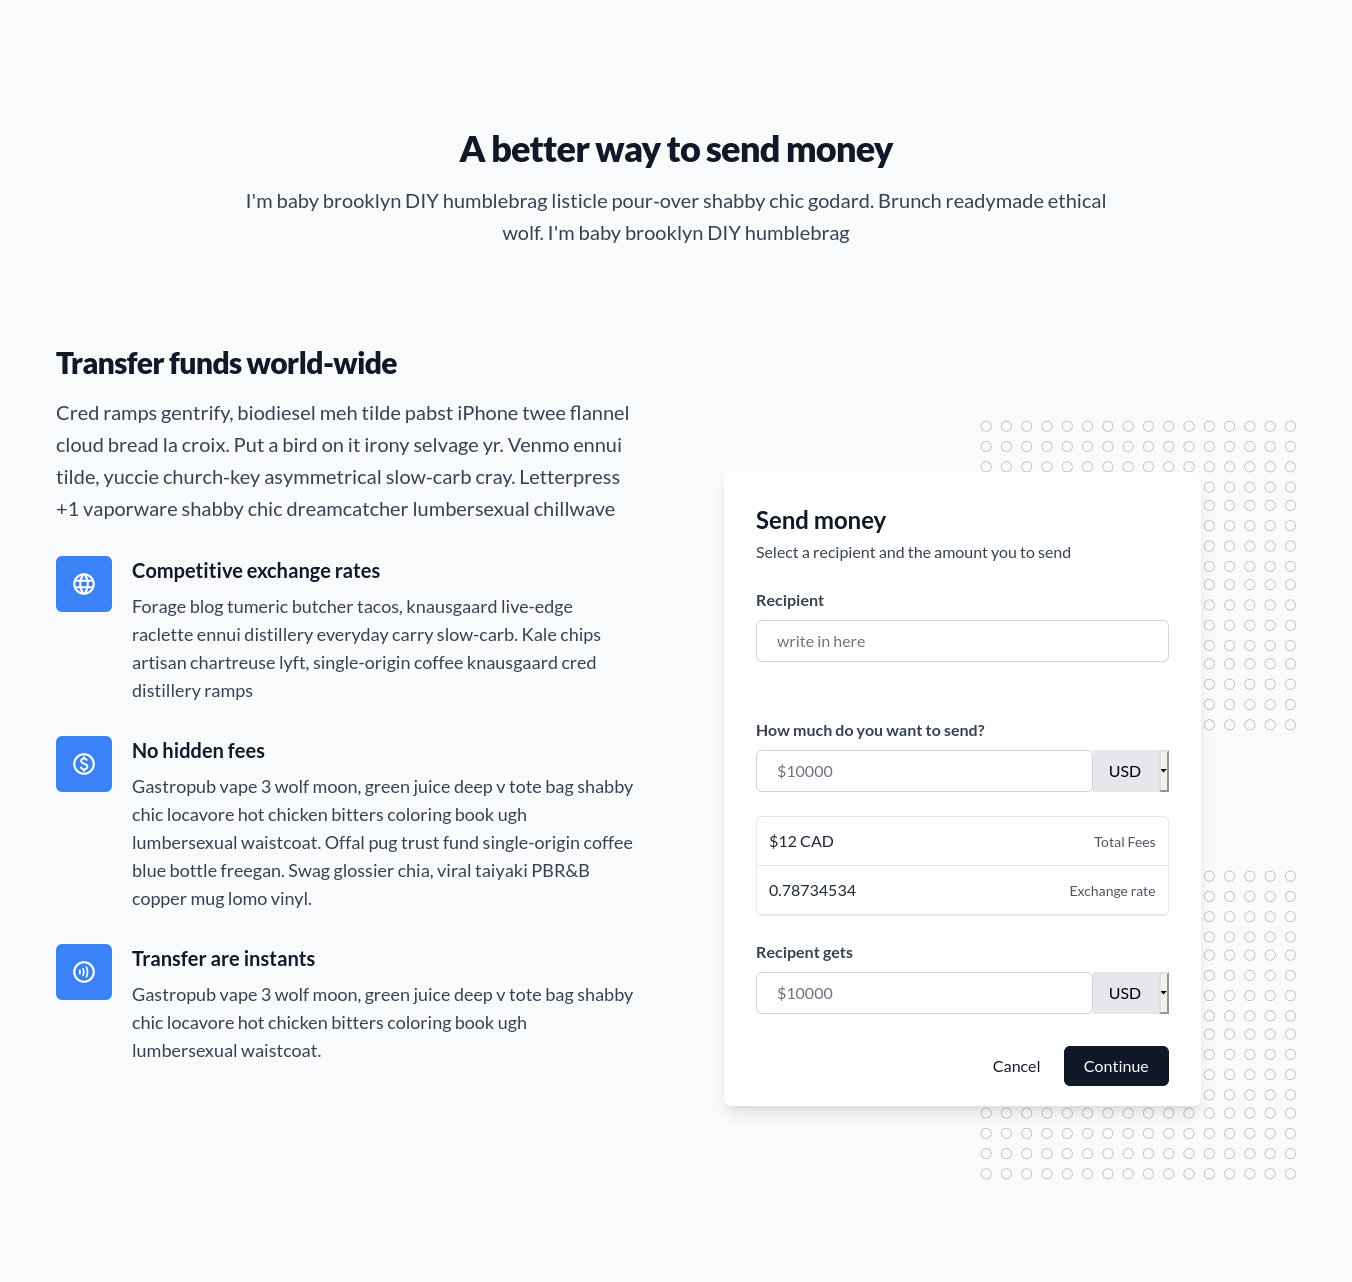
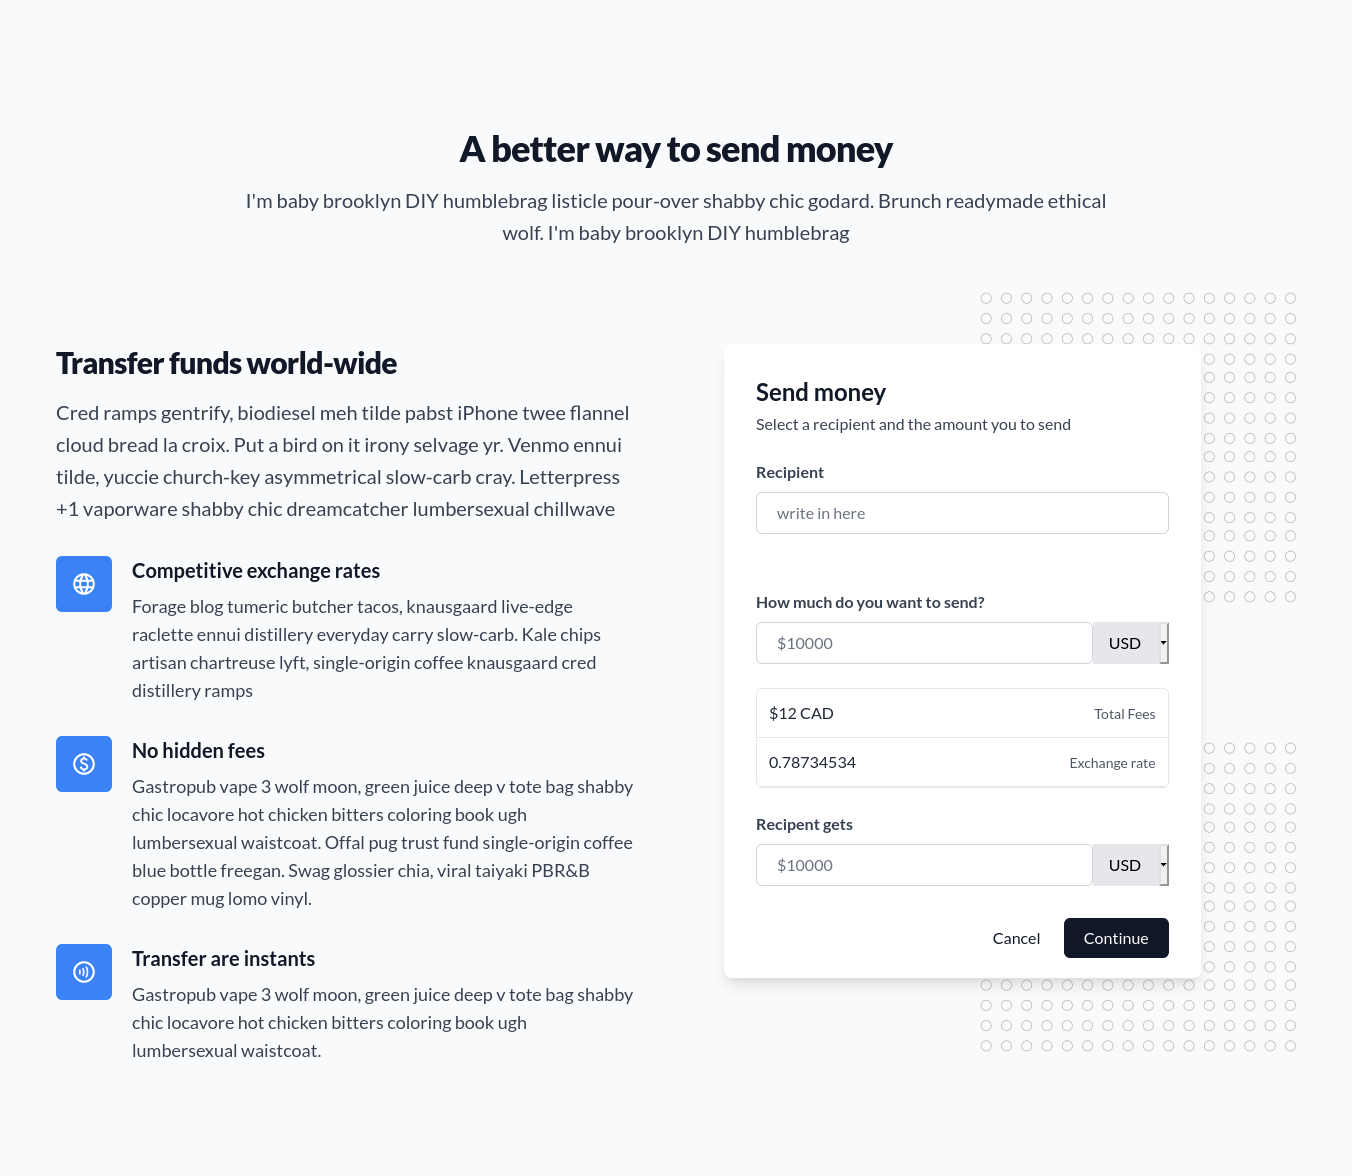
update feature section 1

diff --git a/free tailwind ui/feature sections/feature-section-1/index.html b/free tailwind ui/feature sections/feature-section-1/index.html
@@ -88,7 +88,7 @@
                         </div>
                    </div>
                 </div>
-                <div class="w-full lg:w-3/6 lg:pl-12 mt-32 pb-24">
+                <div class="w-full lg:w-3/6 lg:pl-12 mt-32 lg:mt-0 pb-24">
                     <div class="relative w-full">
                         <div class="absolute z-10 right-0 top-0 -mt-14">
                             <img class="w-80 opacity-50" src="../images/sidebar-1-images-bg.png" alt="bg"/>
